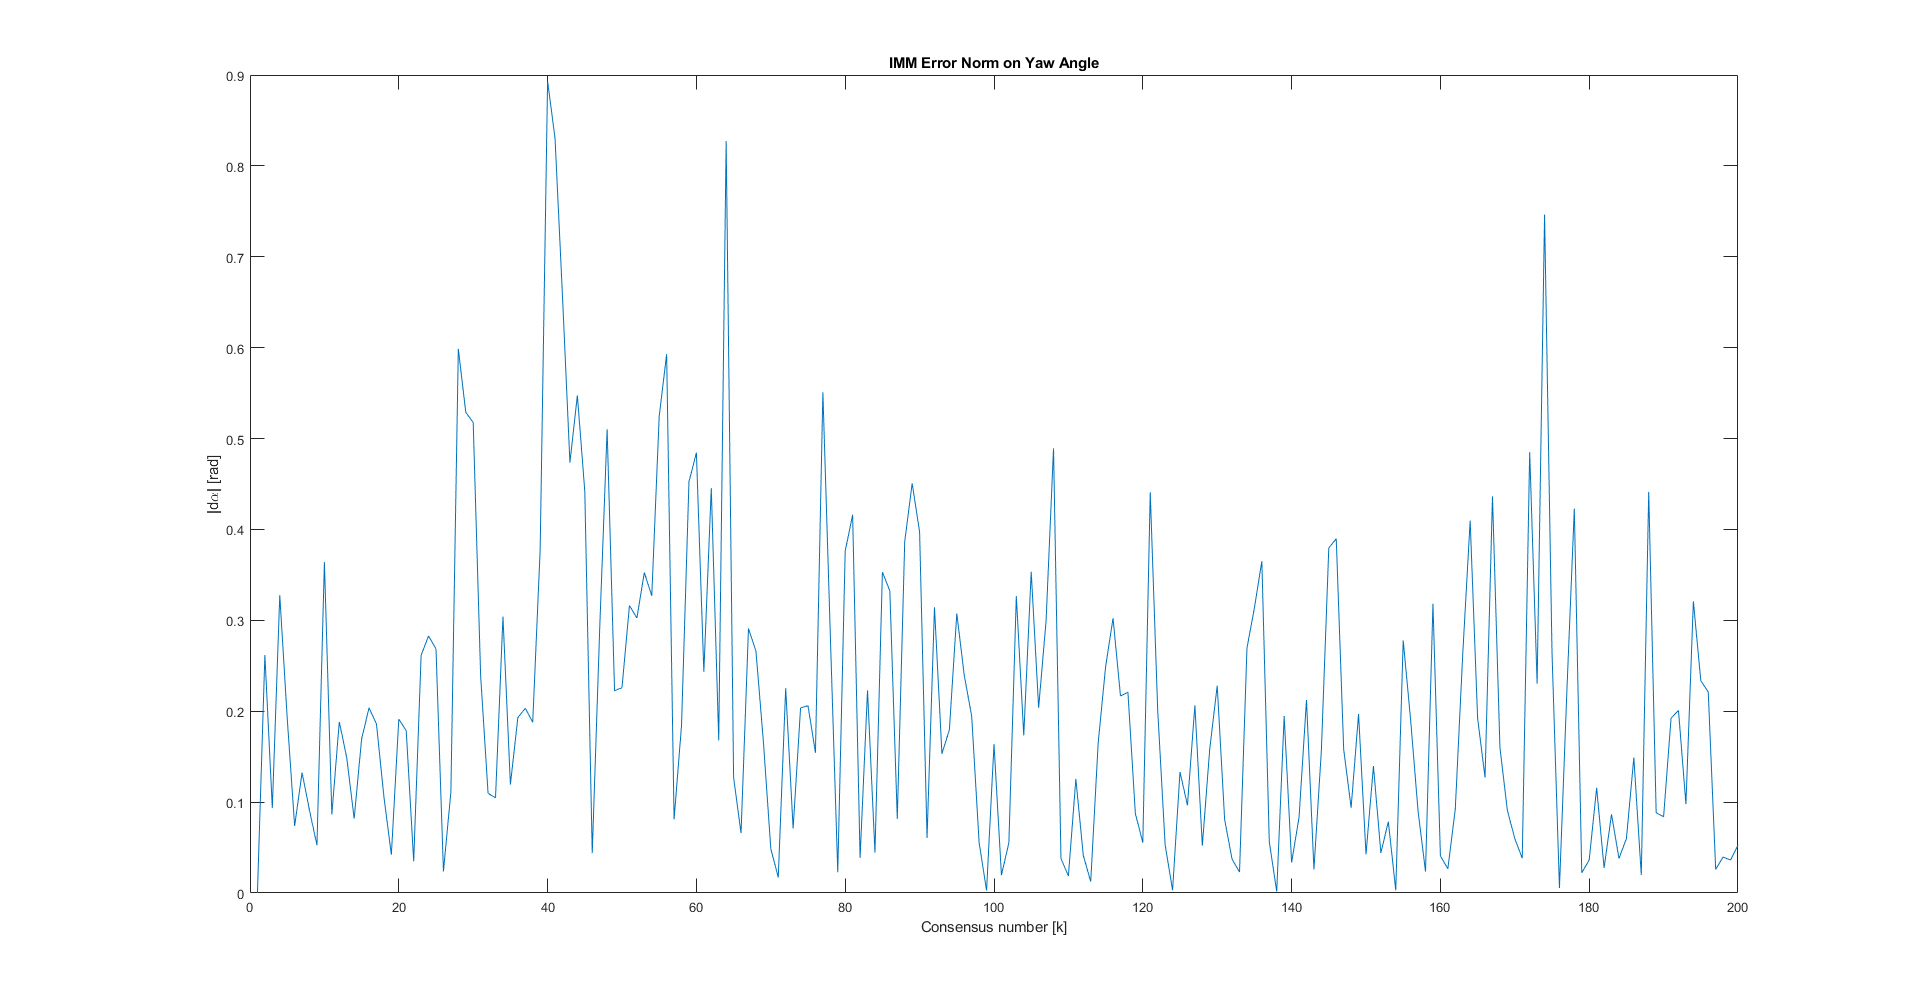
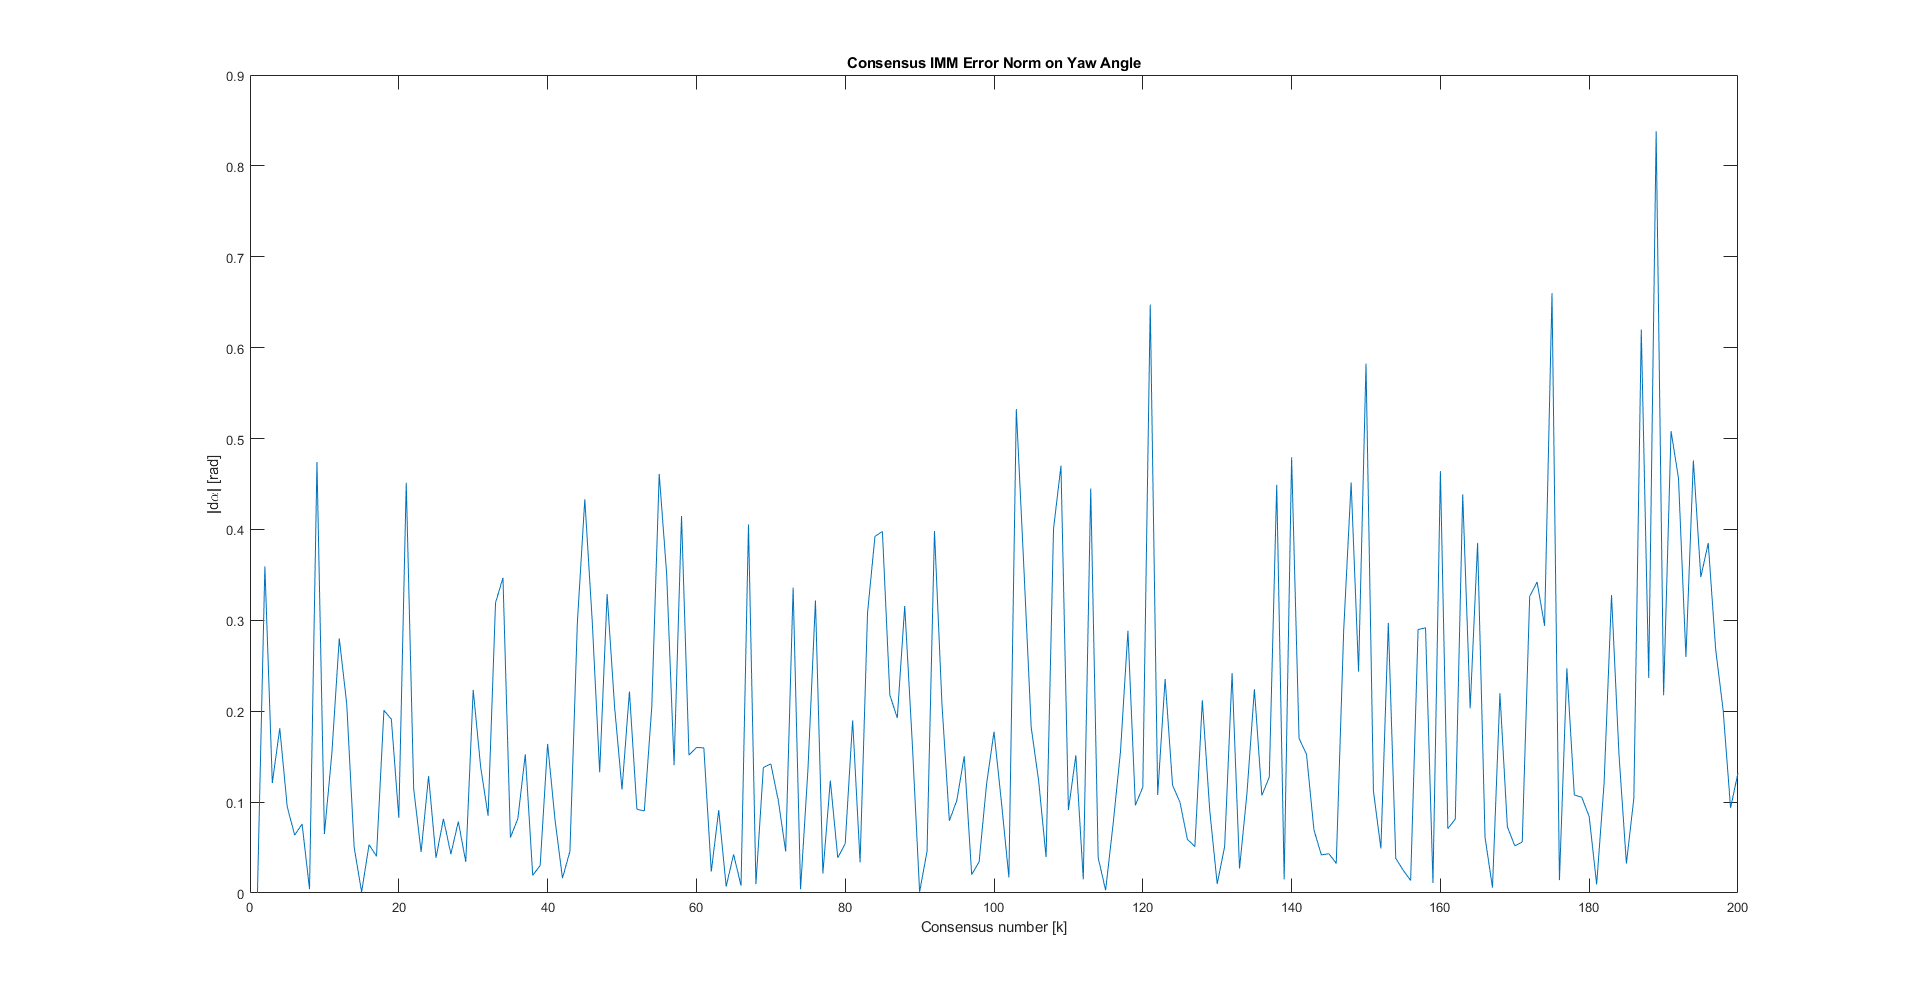
Auto stash before merge of "no_speed_jumps" and "origin/no_speed_jumps"

diff --git a/Progetto2.m b/Progetto2.m
@@ -9,7 +9,7 @@ caso=1;
 %delta time
 delta=0.05;
 %at which rate do we do the consensus ?
-rate=5;
+rate=2;
 %Maximum number of iteration
 nstop=1000;
 %iterations montecarlo
@@ -116,7 +116,7 @@ s=1;
 
 %Senosors
 range=10;
-R=diag([0.1,(2*pi/180)^2]);               %sensor covariance
+R=diag([0.01,(2*pi/360)^2]);               %sensor covariance
 
 rmserr=[];
 maxerr=[];
@@ -407,7 +407,9 @@ for y=1:nmonte
             % the first consensus at x0 and P0 with at n=1 out of the loop, so
             % the next consensi should happen at n+1=1+rate*k or rem(n,rate)==0
             [statocons(:,ncons+1),Pcons(:,:,ncons+1)]=WLS(xsens,Psens,Hsens);
-            mucons(:,ncons+1)=mean(musens,2);
+            if rate>3
+                mucons(:,ncons+1)=mean(musens,2);
+            end
             %check when do we have to do consensus
             if ploton==1
                 addpoints(curve2,statocons(1,ncons+1),statocons(2,ncons+1)) ; % addpoints(curve2,statocons(1,(n+1)/rate+1),statocons(2,(n+1)/rate+1))
